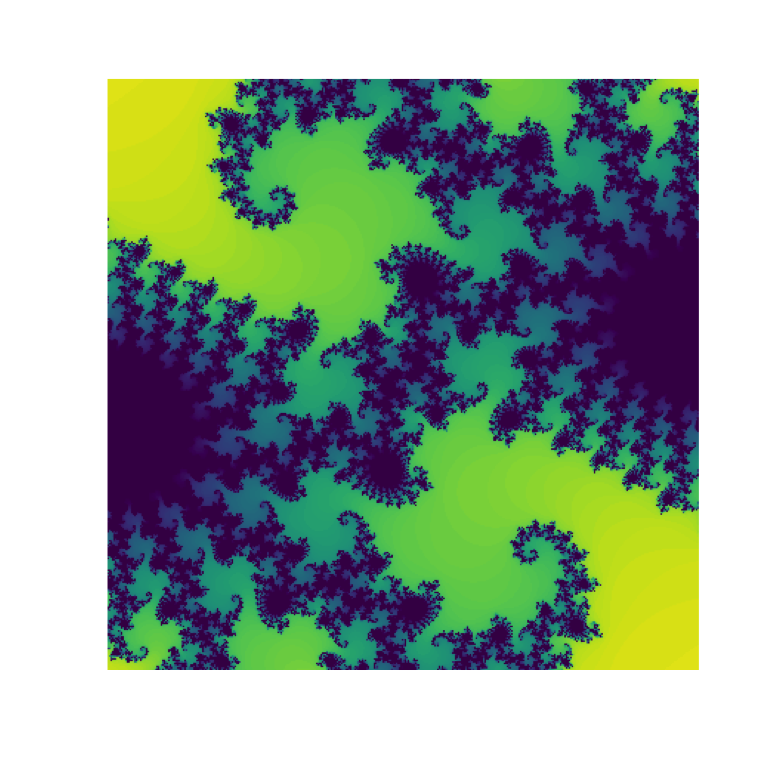
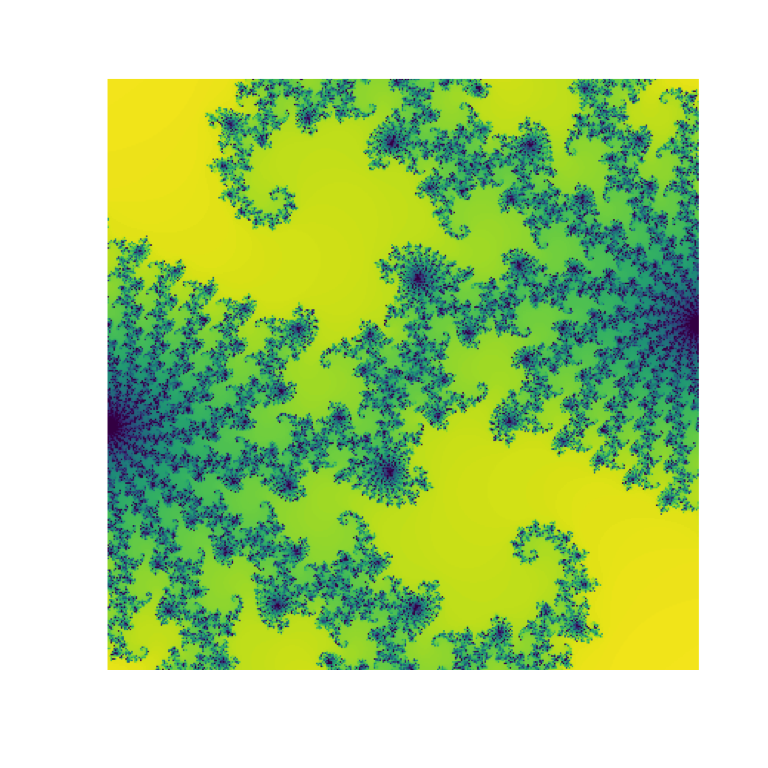
added options for gamma correction and histogram equalization

diff --git a/src/julia.c b/src/julia.c
@@ -3,7 +3,8 @@
 #include <R.h>
 #include <Rinternals.h>
 
-SEXP julia_(SEXP cx_, SEXP cy_, SEXP movex_, SEXP movey_, SEXP zoom_, SEXP size_, SEXP max_iter_) {
+SEXP julia_(SEXP cx_, SEXP cy_, SEXP movex_, SEXP movey_, SEXP zoom_, SEXP size_, SEXP max_iter_,
+            SEXP gamma_, SEXP equalize_) {
 
   int size  = asInteger(size_);
 
@@ -17,13 +18,13 @@ SEXP julia_(SEXP cx_, SEXP cy_, SEXP movex_, SEXP movey_, SEXP zoom_, SEXP size_
 
   int max_iter = asInteger(max_iter_);
 
-  SEXP rarray;
-  PROTECT(rarray = allocVector(RAWSXP, size * size));
-  uint8_t *raw_ptr = RAW(rarray);
-
   double idenom = 1.5/(0.5 * zoom * size);
 
   int max = 1;
+
+  int *iters;
+  iters = calloc(size * size, sizeof(int));
+  int *iter_ptr = iters;
 
   for (int x=0; x < size; x++) {
     for (int y = 0; y < size; y++) {
@@ -43,18 +44,75 @@ SEXP julia_(SEXP cx_, SEXP cy_, SEXP movex_, SEXP movey_, SEXP zoom_, SEXP size_
         max = iter;
       }
 
-      *raw_ptr++ = iter;
+      *iter_ptr++ = iter;
     }
   }
 
-  // Normalise
-  raw_ptr = RAW(rarray);
+  //~~~~~~~~~~~~~~~~~~~~~~~~~~~~~~~~~~~~~~~~~~~~~~~~~~~~~~~~~~~~~~~~~~~~~~~~~~
+  // Normalise into range [0-255] and cast as byte
+  //~~~~~~~~~~~~~~~~~~~~~~~~~~~~~~~~~~~~~~~~~~~~~~~~~~~~~~~~~~~~~~~~~~~~~~~~~~
+  SEXP rarray;
+  PROTECT(rarray = allocVector(RAWSXP, size * size));
+  uint8_t *raw_ptr = RAW(rarray);
+
+  iter_ptr = iters;
+
   for (int i = 0; i < size * size; i++) {
-    *raw_ptr = (uint8_t)(*raw_ptr * 255/max);
-    raw_ptr++;
+    *raw_ptr++ = (uint8_t)round(*iter_ptr++/(double)max * 255);
+  }
+
+  //~~~~~~~~~~~~~~~~~~~~~~~~~~~~~~~~~~~~~~~~~~~~~~~~~~~~~~~~~~~~~~~~~~~~~~~~~~
+  // Histogram equalization
+  //~~~~~~~~~~~~~~~~~~~~~~~~~~~~~~~~~~~~~~~~~~~~~~~~~~~~~~~~~~~~~~~~~~~~~~~~~~
+  int equalize = asLogical(equalize_);
+  if (equalize) {
+    uint32_t *hist;
+    hist = (uint32_t *)calloc(256, sizeof(uint32_t));
+    double cumsum[256];
+    raw_ptr = RAW(rarray);
+
+    // Count the pixels at each level
+    for (int i = 0; i < size * size; i++) {
+      hist[raw_ptr[i]]++;
+    }
+
+    // Calculate the cumulative sum of pixels
+    cumsum[0] = hist[0];
+    for (int i = 1; i < 256; i++) {
+      cumsum[i] = cumsum[i-1] + hist[i];
+    }
+
+    // Rescale the cumulative sum by the total pixels and scale by the
+    // max level i.e. 255
+    uint8_t remap[256];
+    for (int i = 0; i < 256; i++) {
+      remap[i] = (uint8_t)floor(cumsum[i] / (size * size) * 255);
+    }
+
+    // Remap pixel values to the equalized bins in 'remap'
+    raw_ptr = RAW(rarray);
+    for (int i = 0; i < size * size; i++) {
+      *raw_ptr = remap[*raw_ptr];
+      raw_ptr++;
+    }
+    free(hist);
   }
 
 
+  //~~~~~~~~~~~~~~~~~~~~~~~~~~~~~~~~~~~~~~~~~~~~~~~~~~~~~~~~~~~~~~~~~~~~~~~~~~
+  // Apply gamma correction
+  //~~~~~~~~~~~~~~~~~~~~~~~~~~~~~~~~~~~~~~~~~~~~~~~~~~~~~~~~~~~~~~~~~~~~~~~~~~
+  double gamma = asReal(gamma_);
+  if (gamma != 1) {
+    raw_ptr = RAW(rarray);
+    for (int i = 0; i < size * size; i++) {
+      *raw_ptr = (uint8_t)round(pow(*raw_ptr/255.0, gamma) * 255);
+      raw_ptr++;
+    }
+  }
+
+
+  free(iters);
 
   UNPROTECT(1);
   return rarray;

diff --git a/src/init.c b/src/init.c
@@ -7,7 +7,7 @@ extern SEXP julia_();
 
 static const R_CallMethodDef CEntries[] = {
   // name    pointer            Num args
-  {"julia_" , (DL_FUNC) &julia_ , 7},
+  {"julia_" , (DL_FUNC) &julia_ , 9},
 
   {NULL , NULL, 0}
 };

diff --git a/README.md b/README.md
@@ -42,6 +42,11 @@ particular location veered towards infinity. These values are scaled to
 span the full range from allowable within a raw vector (i.e. the whole
 numbers from 0 to 255)
 
+## What’s new in v0.1.1
+
+  - Histogram equalization added as an option to enhance contrast.
+  - Gamma correction option added to enhance contrast
+
 ## Example: Generate a julia set
 
 ``` r
@@ -60,7 +65,7 @@ plot(as.raster(fractal/255))
 library(viridisLite)
 
 # generate a fractal
-fractal <- julia(cx = -0.74, cy = 0.17, zoom = 3, size = 400, max_iter = 100)
+fractal <- julia(cx = -0.74, cy = 0.17, zoom = 3, size = 400, max_iter = 300)
 mode(fractal) <- 'integer'
 
 # Grab a palette from viridis
@@ -74,6 +79,17 @@ plot(as.raster(fractal_raster))
 ```
 
 <img src="man/figures/README-unnamed-chunk-2-1.png" width="100%" />
+
+## Example with gamma correction
+
+<img src="man/figures/README-unnamed-chunk-3-1.png" width="100%" />
+
+## Example with histogram equalization
+
+Histogram equalization can help enhance the contrast of the result,
+especially if there is a wide variation in iterations across the image.
+
+<img src="man/figures/README-unnamed-chunk-4-1.png" width="100%" />
 
 ## Example: git file rendered from multiple frames
 
@@ -102,7 +118,7 @@ zoom <- displease::seq_ease(1, 1000, n = N, type = 'exp-in')
 # Using {foist} here for fast image output
 #~~~~~~~~~~~~~~~~~~~~~~~~~~~~~~~~~~~~~~~~~~~~~~~~~~~~~~~~~~~~~~~~~~~~~~~~~~~~~
 for (i in seq(N)) {
-  frac <- frak::julia(cx = -0.71, zoom = zoom[i], movex = 0.1)
+  frac <- frak::julia(cx = -0.71, zoom = zoom[i], movex = 0.1, equalize = TRUE)
   mode(frac) <- 'integer'
   frac <- frac/255
   
@@ -158,12 +174,12 @@ res <- bench::mark(
 
 </details>
 
-| expression          |     min |   median |    itr/sec |
-| :------------------ | ------: | -------: | ---------: |
-| Julia::JuliaImage() | 898.7ms | 898.75ms |   1.112663 |
-| frak::julia()       |   7.6ms |   8.39ms | 111.225924 |
+| expression          |     min |   median |  itr/sec |
+| :------------------ | ------: | -------: | -------: |
+| Julia::JuliaImage() | 781.5ms | 781.49ms |   1.2796 |
+| frak::julia()       |   7.9ms |   8.25ms | 121.4085 |
 
-<img src="man/figures/README-unnamed-chunk-6-1.png" width="100%" />
+<img src="man/figures/README-unnamed-chunk-8-1.png" width="100%" />
 
 ## Related Software
 

diff --git a/NEWS.md b/NEWS.md
@@ -1,3 +1,9 @@
+# frac 0.1.1  2020-07-19
+
+* Fixed a bug where iterations above 255 were not being handled correctly.
+* Added options for gamma correction (`gamma`) and histogram equalisation
+  (`equalize`)
+
 # frac 0.1.0  2020-07-16
 
 * Initial release
